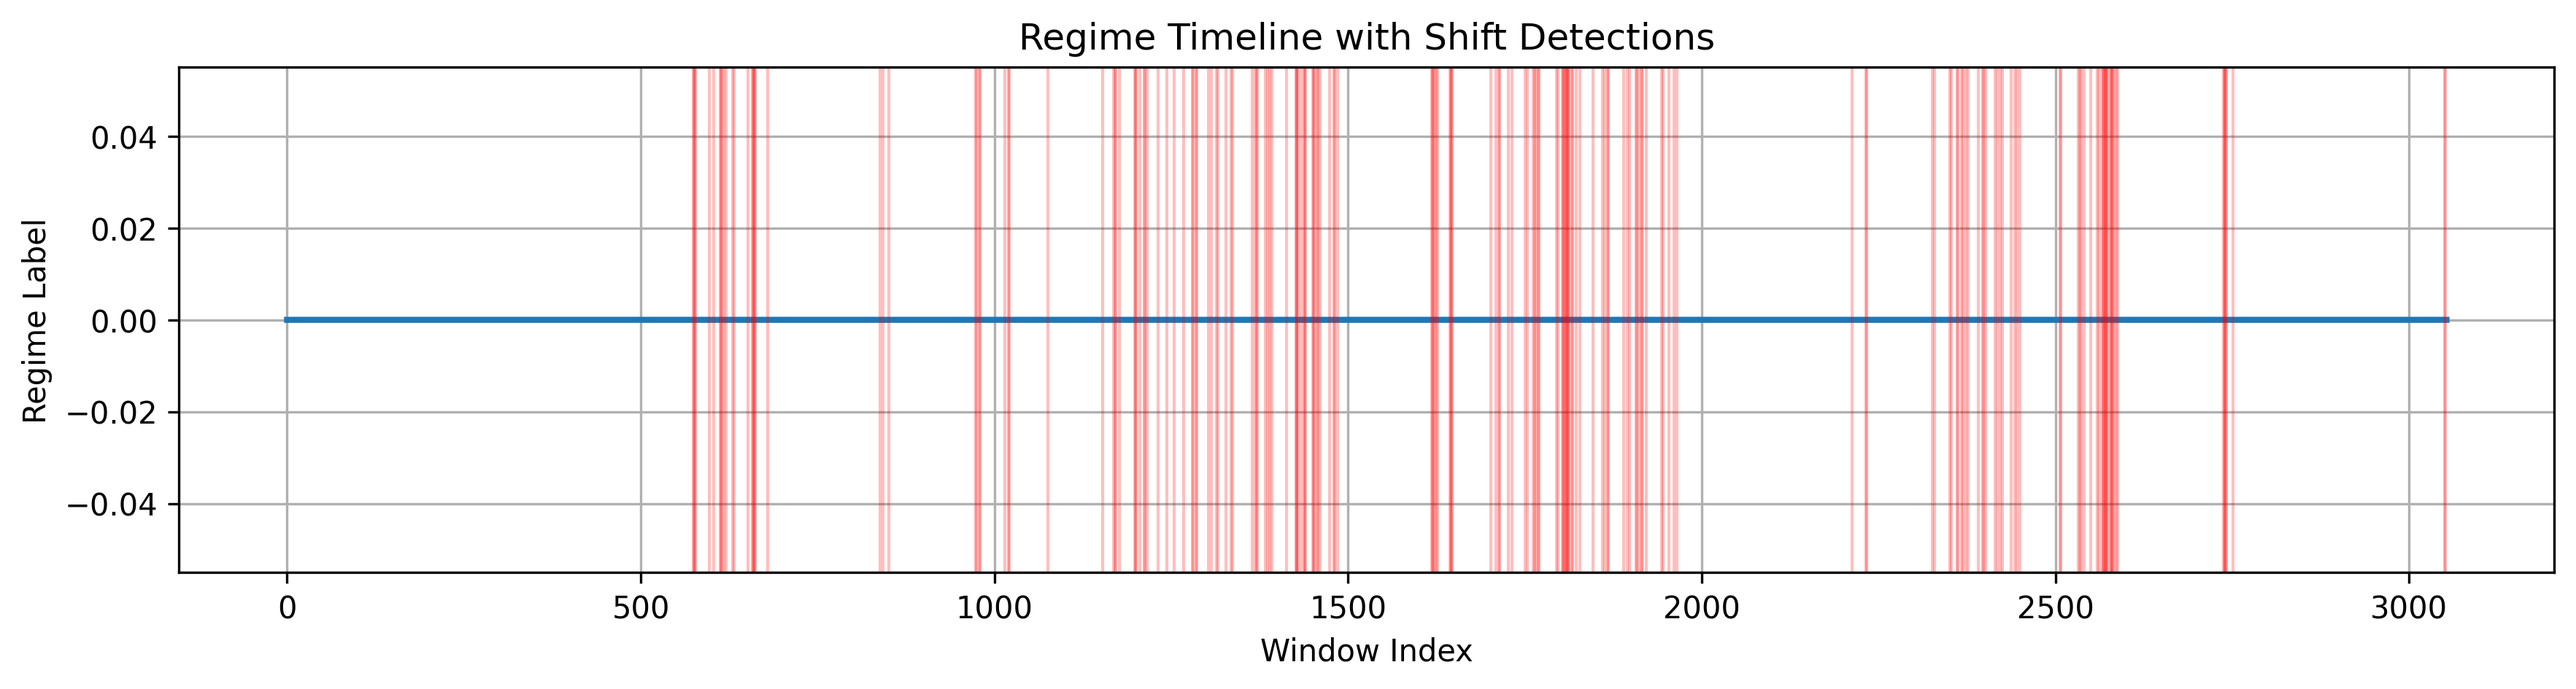
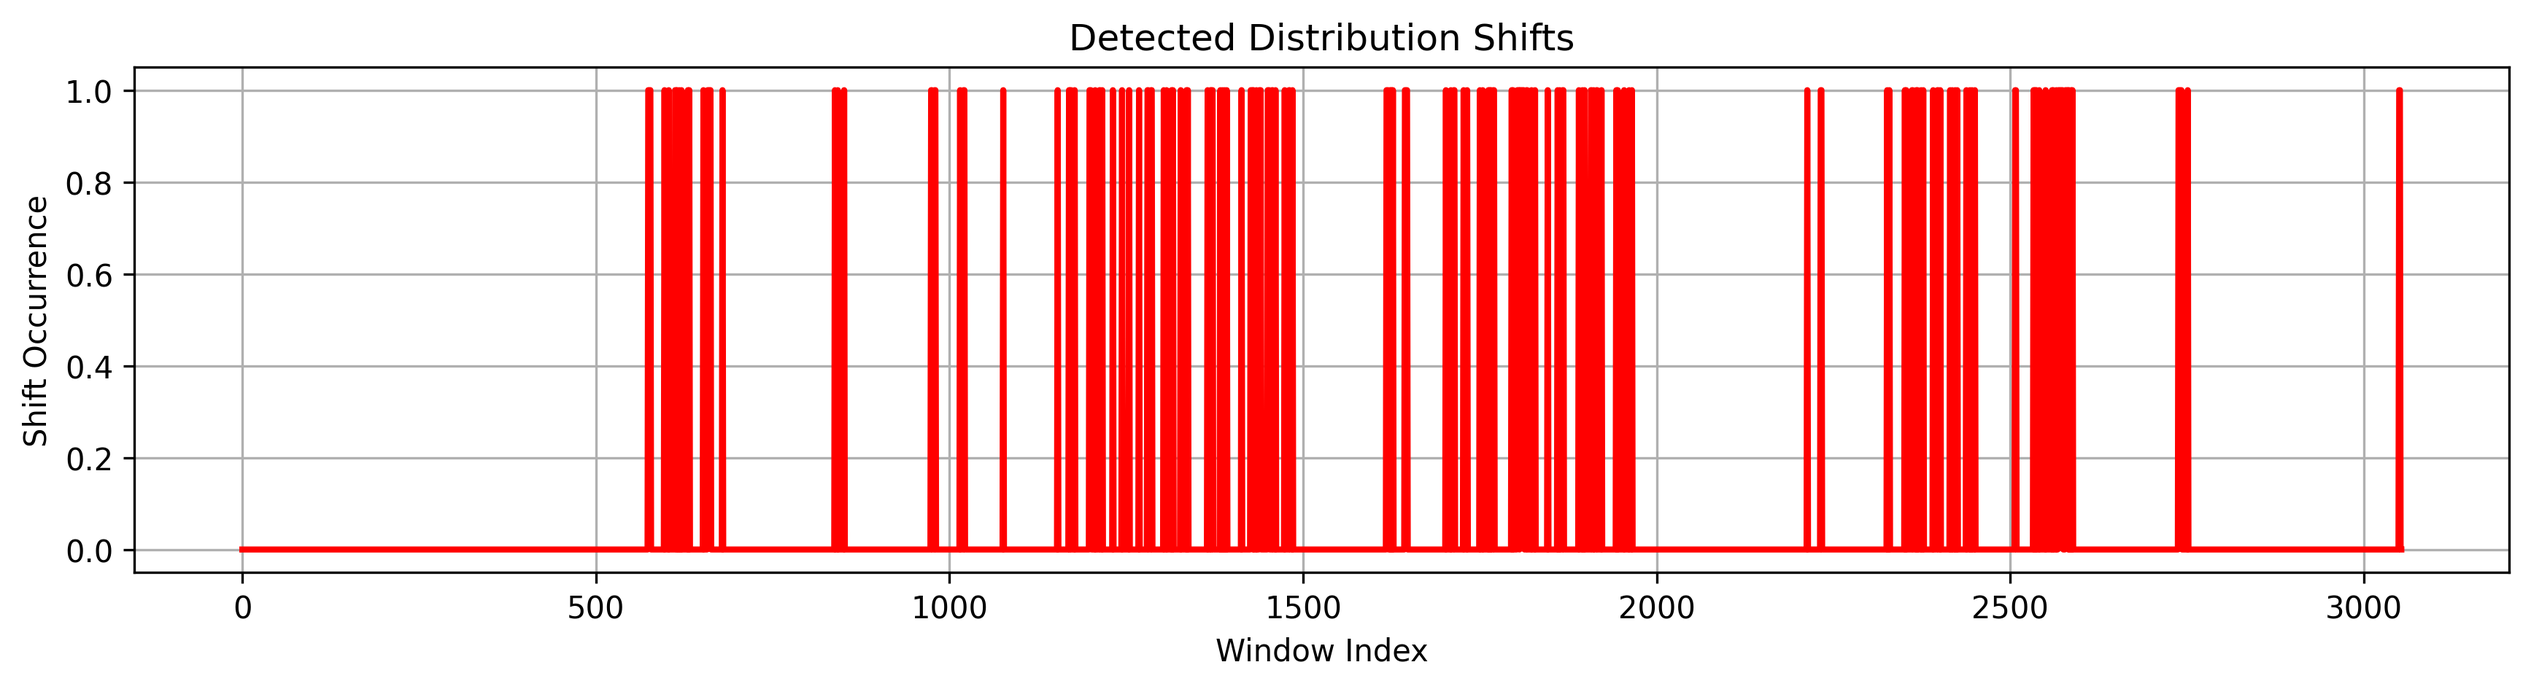
regime shift graph modified

diff --git a/src/visualization/plot_regimes.py b/src/visualization/plot_regimes.py
@@ -2,37 +2,38 @@ import numpy as np
 import matplotlib.pyplot as plt
 import os
 
-
 def main():
 
     regimes = np.load("outputs/regimes/test_regime_labels.npy")
     shifts = np.load("outputs/regimes/test_shift_indices.npy")
 
-    plt.figure(figsize=(14, 3))
+    # binary shift signal
+    shift_signal = np.zeros(len(regimes))
+    shift_signal[shifts] = 1
 
-    # plot regime timeline
-    plt.plot(regimes, drawstyle="steps-mid", linewidth=2)
+    plt.figure(figsize=(14,3))
 
-    # plot vertical lines for shifts
-    for s in shifts:
-        plt.axvline(s, color="red", alpha=0.25, linewidth=1)
+    plt.plot(
+        shift_signal,
+        color="red",
+        linewidth=2
+    )
 
-    plt.title("Regime Timeline with Shift Detections")
+    plt.title("Detected Distribution Shifts")
     plt.xlabel("Window Index")
-    plt.ylabel("Regime Label")
+    plt.ylabel("Shift Occurrence")
 
     plt.grid(True)
 
     os.makedirs("outputs/plots", exist_ok=True)
 
     plt.savefig(
-        "outputs/plots/regime_shifts_v2.png",
+        "outputs/plots/regime_shifts.png",
         dpi=300,
         bbox_inches="tight"
     )
 
     plt.show()
-
 
 if __name__ == "__main__":
     main()
